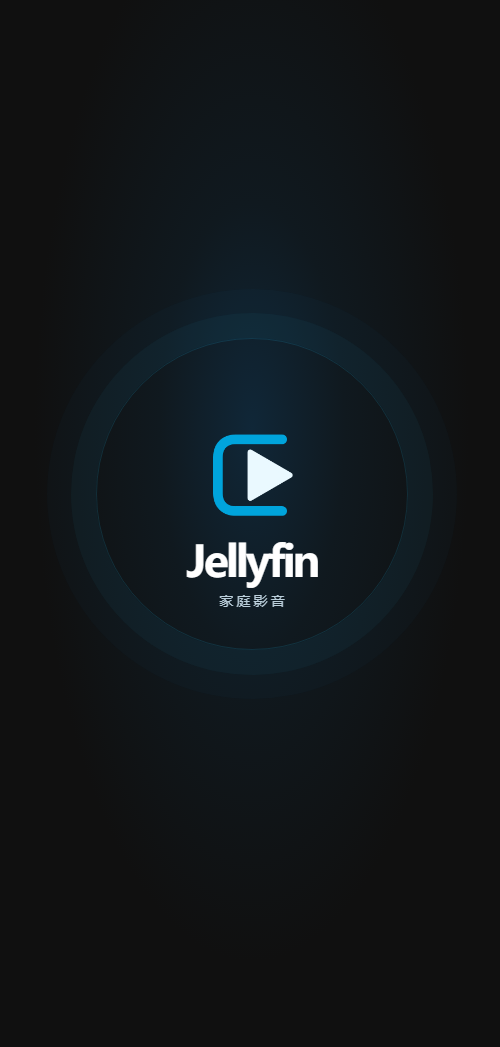
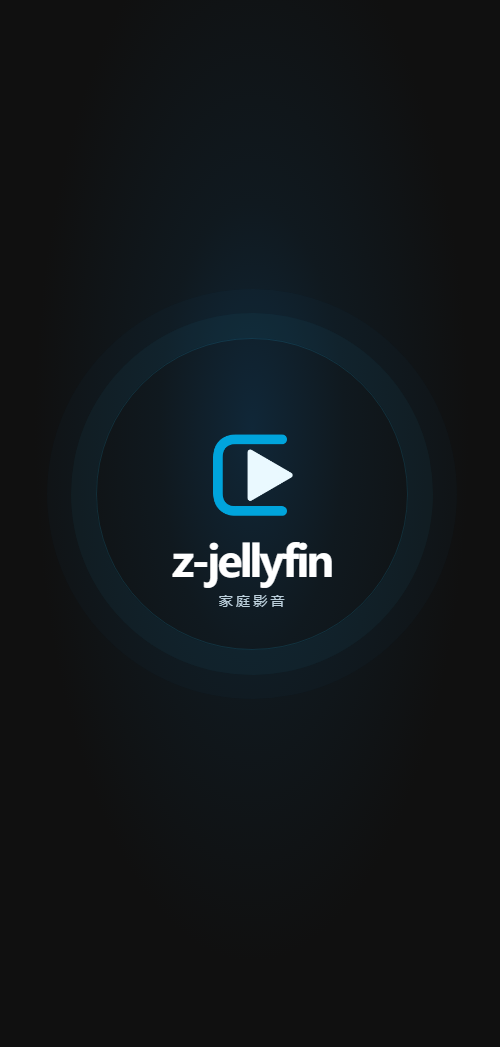
chore: 将应用显示名称统一为 z-jellyfin

Changed region(s): [[0.33, 0.5196, 0.66, 0.5807]]

diff --git a/docs/prototype/index.html b/docs/prototype/index.html
@@ -3,7 +3,7 @@
 <head>
 <meta charset="utf-8">
 <meta name="viewport" content="width=device-width,initial-scale=1,viewport-fit=cover">
-<title>Jellyfin 家庭影音 · UI 设计</title>
+<title>z-jellyfin · UI 设计</title>
 <link rel="icon" href="app-icon.png">
 <link rel="stylesheet" href="ui.css">
 </head>
@@ -12,7 +12,7 @@
  <aside class="notes" aria-label="原型导航">
   <div class="reviewIdentity">
    <img src="logo.png" alt="" width="68" height="68">
-   <h1>Jellyfin<span>家庭影音</span></h1>
+   <h1>z-jellyfin<span>家庭影音</span></h1>
   </div>
   <nav class="jumps" aria-label="直接查看页面">
    <button class="jump" data-jump="home">首页 <span aria-hidden="true">↗</span></button>
@@ -23,7 +23,7 @@
    <button class="jump" data-jump="splash">开屏 <span aria-hidden="true">↗</span></button>
   </nav>
  </aside>
- <div class="shell" aria-label="Jellyfin 手机界面">
+ <div class="shell" aria-label="z-jellyfin 手机界面">
   <header class="top"></header>
   <main></main>
   <nav class="bottom" aria-label="主导航"></nav>
@@ -196,13 +196,13 @@ function player(){
 function splash(){
  return '<button class="splashStage" data-tab="home" type="button" aria-label="结束开屏预览并进入首页">'+
  '<span class="splashIdentity"><img src="logo.png" width="140" height="140" alt="">'+
- '<strong>Jellyfin</strong><span>家庭影音</span></span></button>';
+ '<strong>z-jellyfin</strong><span>家庭影音</span></span></button>';
 }
 function render(){
  const {page}=current, onHome=page==="home";
  document.querySelector(".shell").dataset.screen=page;
  main.dataset.screen=page;
- top.innerHTML=page==="splash"?"":'<div class="brand">'+(onHome?logo+'Jellyfin':'<button class="icon" data-back aria-label="返回">‹</button><span class="toplabel">'+esc(kind[page])+'</span>')+'</div>'+
+ top.innerHTML=page==="splash"?"":'<div class="brand">'+(onHome?logo+'z-jellyfin':'<button class="icon" data-back aria-label="返回">‹</button><span class="toplabel">'+esc(kind[page])+'</span>')+'</div>'+
  (page!=="player"&&page!=="settings"?'<div class="tools">'+(page==="search"?"":'<button class="icon search" data-go="search" aria-label="搜索"></button>')+'<button class="icon" data-go="settings" aria-label="连接设置">⚙</button></div>':"");
  const tabs=["home","library","settings"];
  const tab=tabs.includes(page)?page:stack.findLast(entry=>tabs.includes(entry.page))?.page||"home";

diff --git a/android/app/src/main/java/cn/jiuwusan/jellyfin/player/MainActivity.java b/android/app/src/main/java/cn/jiuwusan/jellyfin/player/MainActivity.java
@@ -171,7 +171,7 @@ public final class MainActivity extends Activity {
         row.setBackgroundColor(LibraryUi.PANEL);
         root.addView(row, new LinearLayout.LayoutParams(-1, dp(61)));
         if (back != null) toolbarButton(row, "‹", "返回", back);
-        boolean home = "Jellyfin".equals(title) && back == null;
+        boolean home = getString(R.string.app_name).equals(title) && back == null;
         if (home) {
             LinearLayout.LayoutParams logoBounds = new LinearLayout.LayoutParams(dp(38), dp(38));
             logoBounds.setMarginStart(-dp(5));
@@ -436,7 +436,7 @@ public final class MainActivity extends Activity {
     private void homePage() {
         stopPlayback();
         browseTab = BrowseTab.HOME;
-        LinearLayout view = panel("Jellyfin", true, null, browseTab);
+        LinearLayout view = panel(getString(R.string.app_name), true, null, browseTab);
         view.setPadding(0, dp(19), 0, dp(30));
         for (HomeShelf shelf : HomeShelf.values()) {
             LinearLayout group = column();

diff --git a/android/app/src/main/java/cn/jiuwusan/jellyfin/player/StartupSplashView.java b/android/app/src/main/java/cn/jiuwusan/jellyfin/player/StartupSplashView.java
@@ -33,7 +33,7 @@ final class StartupSplashView extends FrameLayout {
         identity.setTranslationY(-style.dp(16));
         identity.addView(style.brandMark(), new LinearLayout.LayoutParams(style.dp(140), style.dp(140)));
 
-        TextView name = style.label("Jellyfin", 43, LibraryUi.TEXT, true);
+        TextView name = style.label(context.getString(R.string.app_name), 43, LibraryUi.TEXT, true);
         name.setLetterSpacing(-0.06f);
         name.setIncludeFontPadding(false);
         LinearLayout.LayoutParams nameBounds = new LinearLayout.LayoutParams(-2, -2);

diff --git a/docs/prototype/UI设计说明.md b/docs/prototype/UI设计说明.md
@@ -1,4 +1,4 @@
-# Jellyfin 家庭影音 UI 设计
+# z-jellyfin UI 设计
 
 [打开可点击设计稿](index.html) · [首页预览](首页预览.png) · [开屏预览](开屏预览.png) · [媒体库功能需求](../requirements/媒体库功能需求.md)
 
@@ -24,9 +24,9 @@
 
 ## Logo 与开屏
 
-- [品牌标识](logo.png)是透明底 512×512 PNG，由亮蓝屏幕轮廓和白色播放三角组成。首页顶栏使用这个图形和「Jellyfin」字标。
+- [品牌标识](logo.png)是透明底 512×512 PNG，由亮蓝屏幕轮廓和白色播放三角组成。首页顶栏使用这个图形和「z-jellyfin」字标。
 - [App 图标](app-icon.png)是 1024×1024 的方形 PNG，标识居中并留出系统图标裁切空间。底色从蓝灰过渡到近黑。
-- [开屏](index.html?screen=splash)在近黑背景中央显示标识、Jellyfin 和「家庭影音」，蓝色光晕和细圆环用于强化识别。可点击稿中，点击开屏即可预览首页；淡入遵循系统的减少动态效果设置。
+- [开屏](index.html?screen=splash)在近黑背景中央显示标识、z-jellyfin 和「家庭影音」，蓝色光晕和细圆环用于强化识别。可点击稿中，点击开屏即可预览首页；淡入遵循系统的减少动态效果设置。
 - Android 12 及以上先显示系统启动标识，再过渡到品牌开屏。已保存连接配置时，开屏期间开始自动登录；连接耗时较长时显示状态和连接设置入口。
 
 ## 数据状态与原生交接

diff --git a/README.md b/README.md
@@ -1,4 +1,4 @@
-# Jellyfin 家庭影音
+# z-jellyfin
 
 面向家庭使用的原生 Jellyfin 播放客户端。Android 和 iOS 工程在同一个仓库中独立构建。
 
